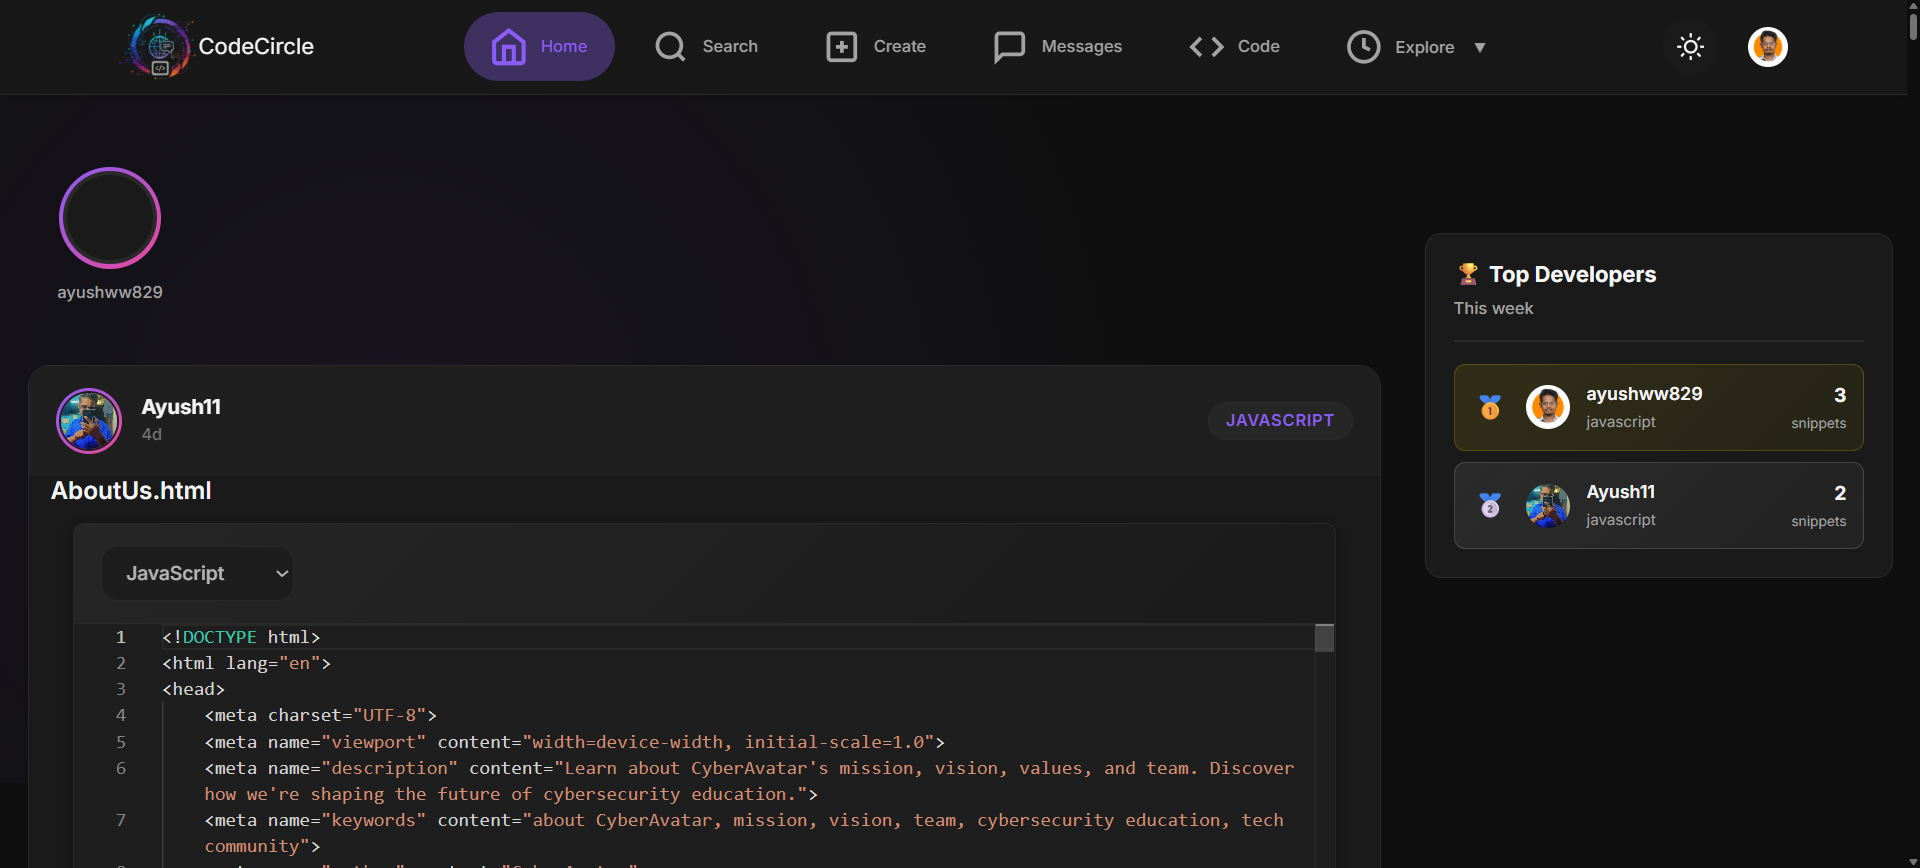
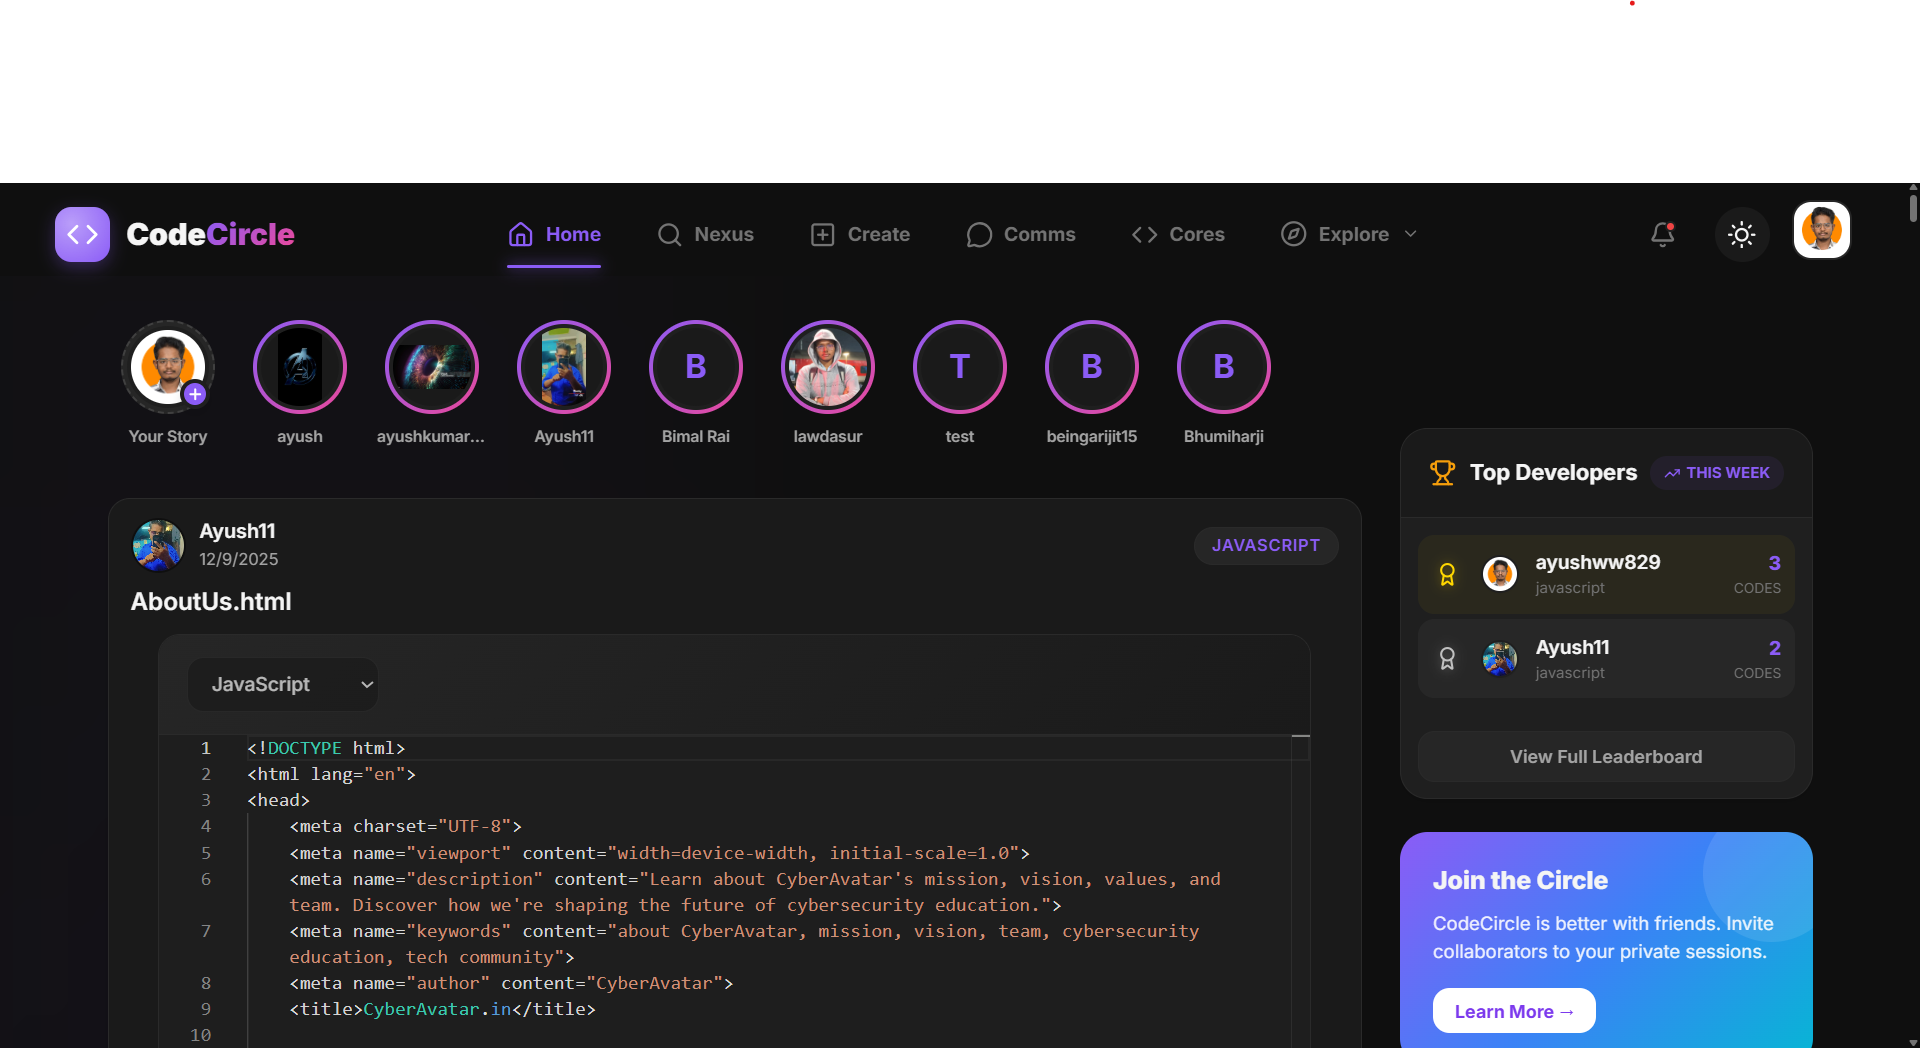
ok

diff --git a/src/components/Projects.jsx b/src/components/Projects.jsx
@@ -11,45 +11,45 @@ import bajpai from '../asserts/bajpai.png';
 
 const projects = [
     {
-        title: 'E-Commerce Platform',
+        title: 'Mehryaann:- E-Commerce Platform',
         description: 'A full-stack online store with payment integration, user authentication, and admin dashboard.',
         tags: ['React', 'Node.js', 'MongoDB', 'Stripe'],
-        links: { demo: '#', github: '#' },
+        links: { demo: 'https://mehryan-e-commerce.vercel.app/' },
         image: mehryaan
     },
     {
-        title: 'Delightio :- online restaurant ordering system',
+        title: 'Delightio:- online restaurant ordering system',
         description: 'A full-stack online restaurant ordering system with menu management, order tracking, and user reviews.',
         tags: ['Node.js', 'React.js', 'Express', 'MongoDB'],
-        links: { demo: '#', github: '#' },
+        links: { demo: 'https://delightio.vercel.app/'},
         image: delightio
     },
     {
-        title: 'Portfolio Website',
-        description: 'Modern, responsive personal portfolio showcasing skills and projects.',
-        tags: ['React', 'Framer Motion', 'CSS'],
-        links: { demo: '#', github: '#' },
+        title: 'CodeCircle:- developers social media platform',
+        description: 'A social media platform for developers to share projects, collaborate, and network with other tech enthusiasts.',
+        tags: ['React', 'Node.js', 'Express', 'MongoDB'],
+        links: { demo: 'https://code-circle-jade.vercel.app/'},
         image: codecircle
     },
     {
-        title: 'Portfolio Website',
-        description: 'Modern, responsive personal portfolio showcasing skills and projects.',
-        tags: ['React', 'Framer Motion', 'CSS'],
-        links: { demo: '#', github: '#' },
+        title: 'BrainBuildersAbacus:- online abacus learning platform',
+        description: 'An online platform for learning abacus skills with interactive lessons and progress tracking.',
+        tags: ['Node.js', 'React.js', 'Express', 'MongoDB'],
+        links: { demo: 'https://brainbuildersabacus.com/'},
         image: abacus
     },
     {
-        title: 'Portfolio Website',
-        description: 'Modern, responsive personal portfolio showcasing skills and projects.',
-        tags: ['React', 'Framer Motion', 'CSS'],
-        links: { demo: '#', github: '#' },
+        title: 'MetaCode:- IT company website',
+        description: 'A modern, responsive website for an IT company showcasing services and projects.',
+        tags: ['Node.js', 'React.js', 'Express', 'MongoDB'],
+        links: { demo: 'https://metacode.co.in/'},
         image: metacode
     },
     {
         title: 'Portfolio Website',
         description: 'Modern, responsive personal portfolio showcasing skills and projects.',
-        tags: ['React', 'Framer Motion', 'CSS'],
-        links: { demo: '#', github: '#' },
+        tags: ['Node.js', 'React.js', 'Express', 'MongoDB'],
+        links: { demo: 'https://portfolio-vishaal.vercel.app/' },
         image: bajpai
     }
 ];
@@ -87,9 +87,6 @@ export default function Projects() {
                             <div className="project-links">
                                 <a href={project.links.demo} className="project-link">
                                     <ExternalLink size={16} /> Live Demo
-                                </a>
-                                <a href={project.links.github} className="project-link">
-                                    <Github size={16} /> Source Code
                                 </a>
                             </div>
                         </div>
